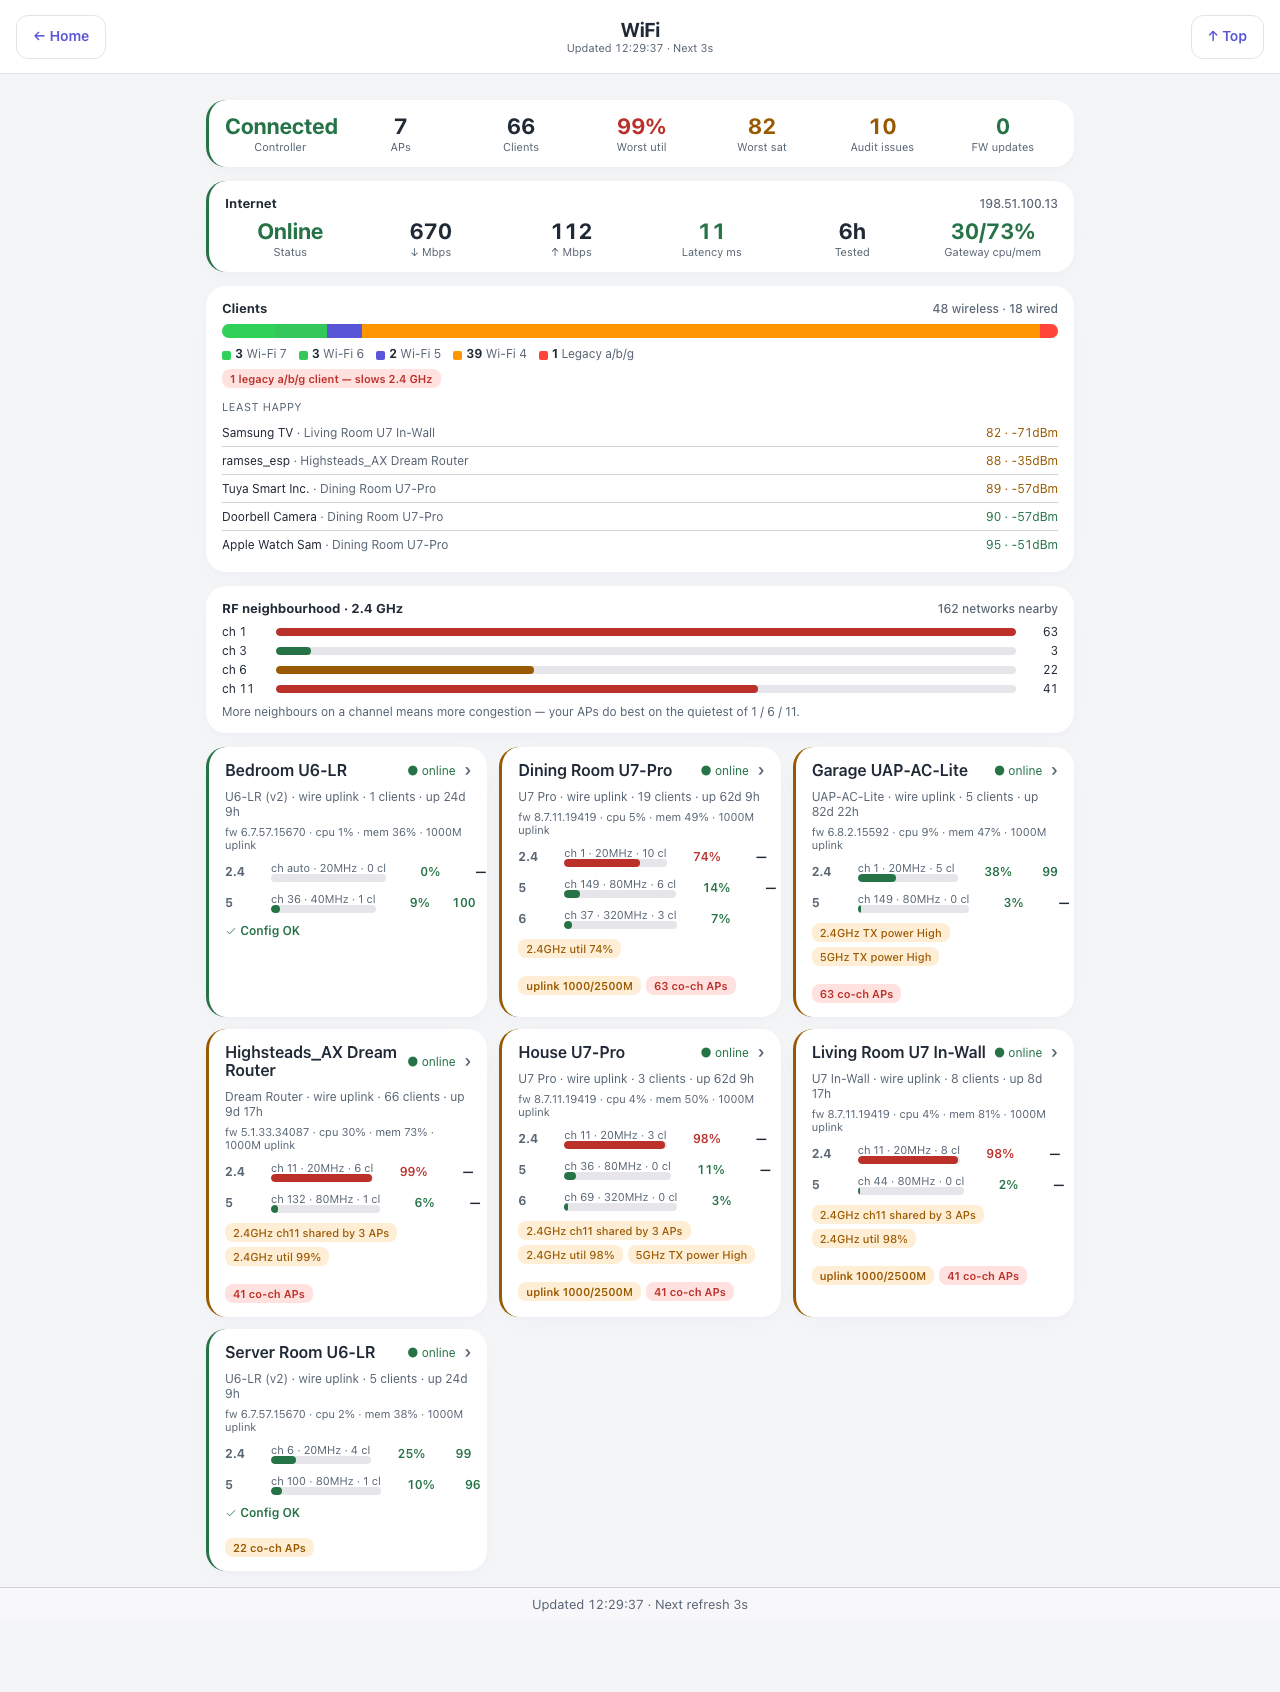
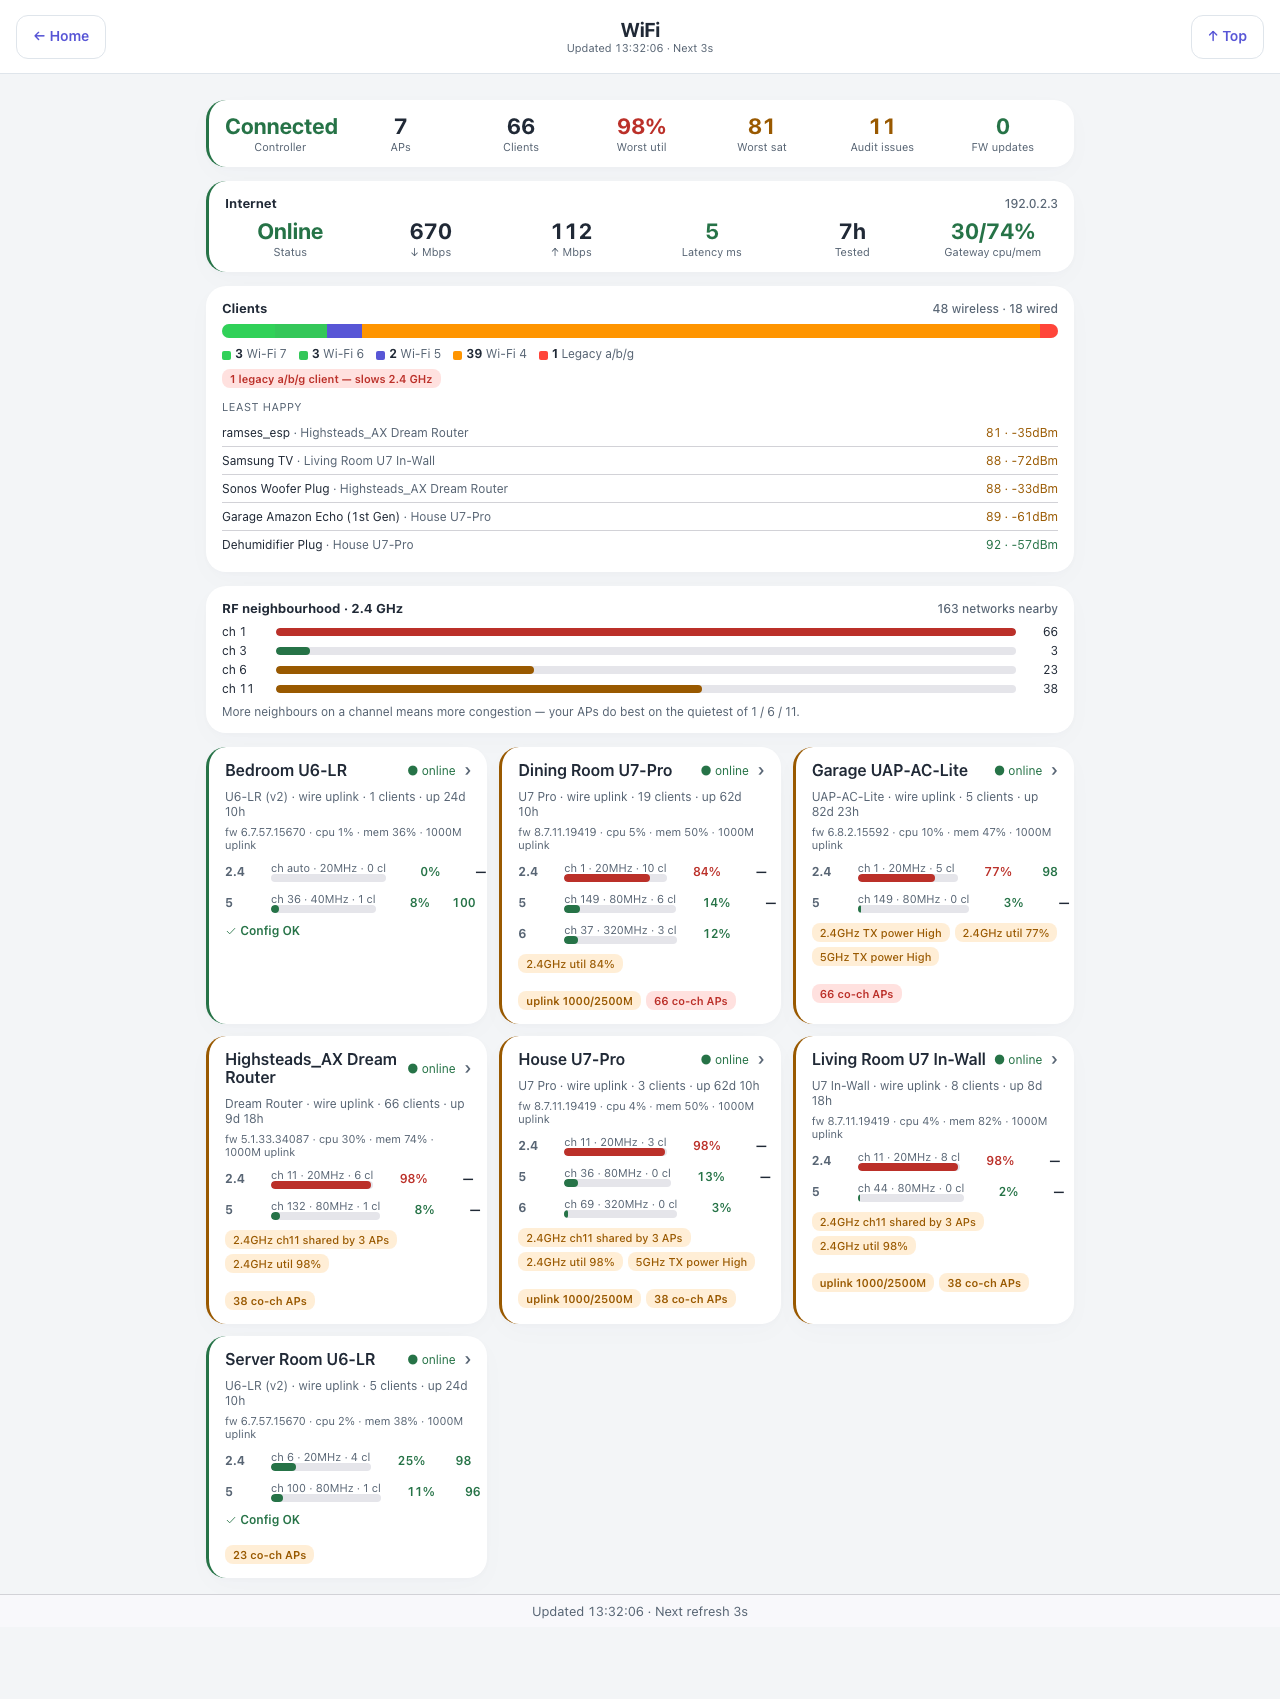
Screenshots: an address must stand on its own; public ones in data only
capture_screenshots.py 1.6. Since 1.5 rewrote public addresses, a run of
dotted numbers in SVG path data (the door icon's arc, 0-1.6.8.8 0) became
0-203.0.113.1 0 and the Hall tile drew a half circle across the Rooms page. An
address may no longer follow a digit, dot or minus sign or run into more
dotted digits, and public addresses are rewritten in data but never in a
script or stylesheet. Every static page and script now passes through
unchanged apart from made-up private examples. wifi.png re-captured under it.

diff --git a/tools/capture_screenshots.py b/tools/capture_screenshots.py
@@ -7,7 +7,9 @@
 #              network config.
 # Author:      CliveS & Claude Sonnet 5
 # Date:        10-09-2026
-# Version:     1.5 (public addresses are rewritten too: the Wi-Fi page shows
+# Version:     1.6 (an address must stand on its own, and public ones are
+#              rewritten in data only: 1.5 rewrote "1.6.8.8" inside an SVG path)
+#              1.5 (public addresses are rewritten too: the Wi-Fi page shows
 #              the house's own internet address)
 #              1.4 (a name joined to the next word by "_" is renamed too)
 #              1.3 (--rename OLD=NEW for people's names; MACs rewritten; header
@@ -99,7 +101,12 @@ CHROME = "/Applications/Google Chrome.app/Contents/MacOS/Google Chrome"
 # published material without pointing at anything real.
 DOC_NETS = ["192.0.2.", "198.51.100.", "203.0.113."]
 
-IP_RE = re.compile(rb"\b(?:\d{1,3}\.){3}\d{1,3}\b")
+# An address stands on its own (v1.6): not straight after a digit, a dot or a
+# minus sign, and not followed by more dotted digits. SVG path data is full of
+# runs like "0-1.6.8.8 0" (an arc's numbers written without spaces), and once
+# public addresses were rewritten too, the door icon's path became
+# "0-203.0.113.1 0" and drew a half circle across the Rooms page.
+IP_RE = re.compile(rb"(?<![\d.\-])(?:\d{1,3}\.){3}\d{1,3}(?!\d|\.\d)")
 
 # Endless responses. See _relay for why they have to be refused rather than
 # relayed.
@@ -143,6 +150,7 @@ class Sanitiser:
     def __init__(self, renames=None):
         self.map = {}
         self.reverse = {}
+        self._public = True
         self._nets = {}
         self._hosts = {}
         # --rename OLD=NEW (v1.3): people's names, whole words only, so a
@@ -181,6 +189,11 @@ class Sanitiser:
         # Leave loopback alone or the page cannot talk to its own proxy.
         if addr.is_loopback or not (addr.is_private or addr.is_global):
             return m.group(0)
+        # Public addresses only in DATA, never in a script or stylesheet,
+        # where a run of dotted numbers is far more likely to be geometry or
+        # a version than anybody's internet address.
+        if addr.is_global and not self._public:
+            return m.group(0)
         if any(raw.startswith(n) for n in DOC_NETS):
             return m.group(0)                      # already one of ours
         return self._fake_for(raw).encode()
@@ -194,7 +207,10 @@ class Sanitiser:
             self._macs[real] = FAKE_MAC_PREFIX + b"%02x:%02x" % (n // 256, n % 256)
         return self._macs[real]
 
-    def scrub(self, body):
+    def scrub(self, body, public=True):
+        """Rewrite a response body. public=False leaves internet addresses
+        alone — for scripts and stylesheets, see _sub."""
+        self._public = public
         body = IP_RE.sub(self._sub, body)
         body = MAC_RE.sub(self._mac, body)
         for rx, new in self.renames:
@@ -211,7 +227,7 @@ class Sanitiser:
         as residue(), for people rather than addresses)."""
         return sorted({rx.pattern.decode() for rx, _ in self.renames if rx.search(body)})
 
-    def residue(self, body):
+    def residue(self, body, public=True):
         """Private addresses still present AFTER scrubbing.
 
         The point of a self-check: a rewrite that silently misses something
@@ -231,6 +247,8 @@ class Sanitiser:
             except ValueError:
                 continue
             if addr.is_loopback or not (addr.is_private or addr.is_global):
+                continue
+            if addr.is_global and not public:
                 continue
             if any(raw.startswith(n) for n in DOC_NETS):
                 continue                           # one of ours
@@ -404,10 +422,11 @@ def make_handler(upstream, sanitiser, seen_lock, api_key=None, seen_paths=None,
             # and an address cannot be read off a PNG anyway.
             if sanitise and any(t in ctype
                                 for t in ("json", "text", "javascript", "xml")):
+                data = not any(t in ctype for t in ("javascript", "css"))
                 with seen_lock:
-                    body = sanitiser.scrub(body)
+                    body = sanitiser.scrub(body, public=data)
                     if leaks is not None:
-                        leaks.extend(sanitiser.residue(body))
+                        leaks.extend(sanitiser.residue(body, public=data))
                         leaks.extend(sanitiser.name_residue(body))
                         leaks.extend(sanitiser.mac_residue(body))
             # CSS and HTML carry the media queries; the shim goes in the head.

diff --git a/tests/test_capture_rename.py b/tests/test_capture_rename.py
@@ -87,3 +87,21 @@ def test_every_real_address_gets_its_own_fake_one():
     fakes = [s.scrub(r.encode()).decode() for r in reals]
     assert len(set(fakes)) == len(reals), fakes
     assert all(s.reverse[f] == r for f, r in zip(fakes, reals))
+
+
+def test_numbers_in_a_drawing_are_not_addresses():
+    # The door icon's arc, "0-1.6.8.8 0", became "0-203.0.113.1 0" under 1.5.
+    s = cap.Sanitiser()
+    path = b'M15 12.8a.8.8 0 1 0 0-1.6.8.8 0 0 0 0 1.6z'
+    assert s.scrub(path) == path
+    assert s.scrub(b"v1.2.3.4.5") == b"v1.2.3.4.5", "more dotted digits: not an address"
+    assert s.scrub(b"no route to 192.168.1.20.") != b"no route to 192.168.1.20.", \
+        "an address at the end of a sentence is still an address"
+
+
+def test_public_addresses_are_left_alone_in_scripts():
+    s = cap.Sanitiser()
+    js = b'const v = "8.8.4.4";'
+    assert s.scrub(js, public=False) == js
+    assert s.residue(js, public=False) == []
+    assert b"8.8.4.4" not in s.scrub(js), "in data, a public address is rewritten"
